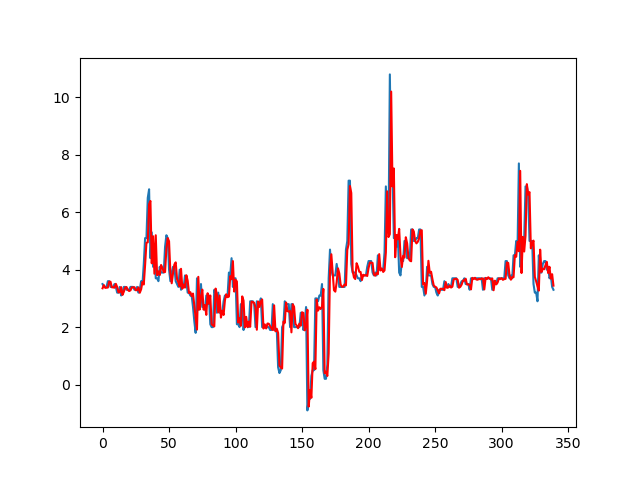
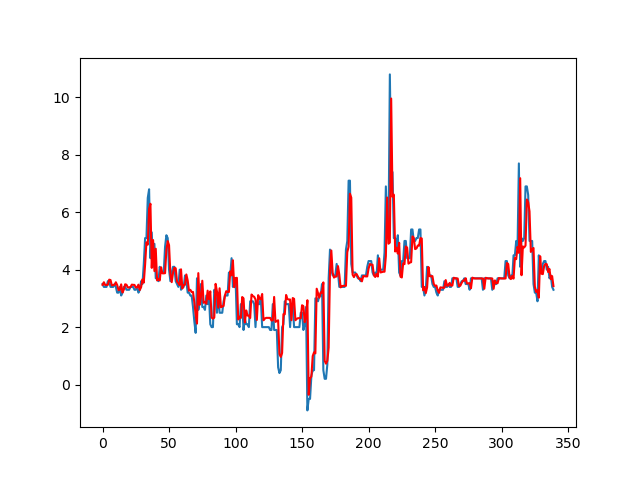
SDA

diff --git a/NN/ARIMA.py b/NN/ARIMA.py
@@ -3,7 +3,7 @@ from pandas import datetime
 from pandas import DataFrame
 from statsmodels.tsa.arima_model import ARIMA
 from matplotlib import pyplot
-from sklearn.metrics import mean_squared_error
+from sklearn.metrics import mean_squared_error,mean_absolute_error
 
 def parser(x):
 	return datetime.strptime('190'+x, '%Y-%m')
@@ -16,7 +16,7 @@ train, test = X[0:size], X[size:len(X)]
 history = [x for x in train]
 predictions = list()
 for t in range(len(test)):
-	model = ARIMA(history, order=(7,1,0))
+	model = ARIMA(history, order=(3,0,0))
 	model_fit = model.fit(disp=0)
 	output = model_fit.forecast()
 	yhat = output[0]
@@ -24,7 +24,8 @@ for t in range(len(test)):
 	obs = test[t]
 	history.append(obs)
 	print('predicted=%f, expected=%f' % (yhat, obs))
-error = mean_squared_error(test, predictions)
+#error = mean_squared_error(test, predictions)
+error = mean_absolute_error(test, predictions)
 print('Test MSE: %.3f' % error)
 # plot
 pyplot.plot(test)

diff --git a/NN/ptest.py b/NN/ptest.py
@@ -1,0 +1,14 @@
+import numpy as np, pandas as pd
+from statsmodels.graphics.tsaplots import plot_acf, plot_pacf
+import matplotlib.pyplot as plt
+plt.rcParams.update({'figure.figsize':(9,7), 'figure.dpi':120})
+
+# Import data
+df = pd.read_csv('data/1000.csv', names=['value'], header=0, index_col=0)
+
+# Original Series
+#fig, axes = plt.subplots(3, 2, sharex=True)
+#axes[0, 0].plot(df.value); axes[0, 0].set_title('Original Series')
+plot_pacf(df.value,lags=50)
+
+plt.show()
